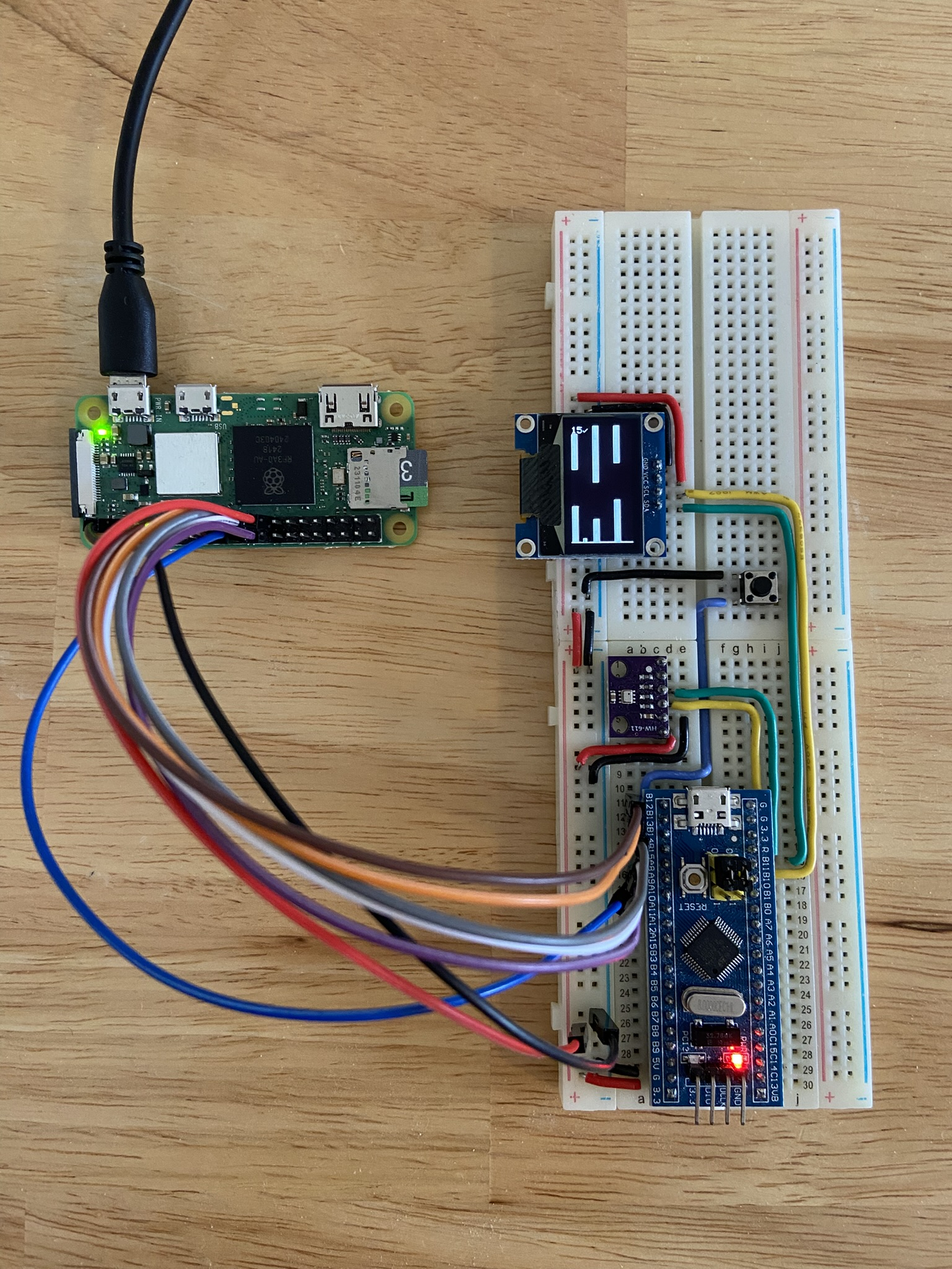
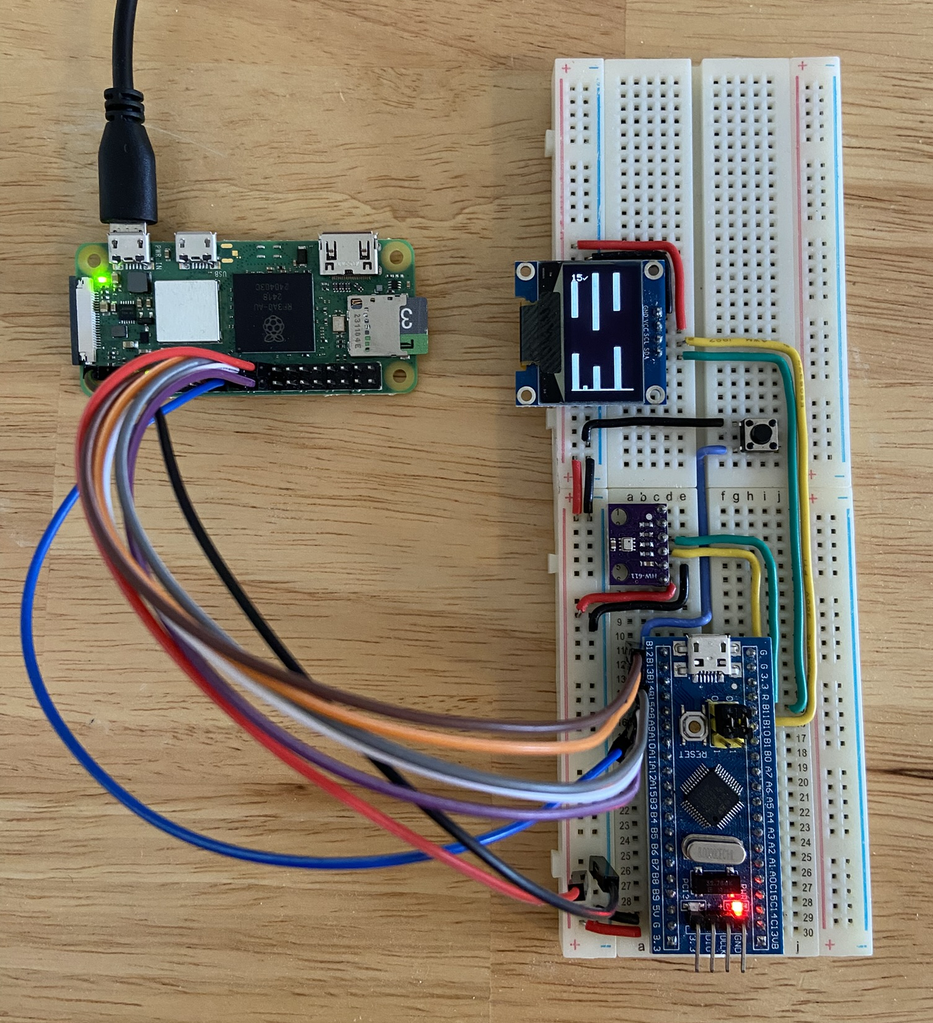
Fix hardware photo

diff --git a/README.md b/README.md
@@ -45,4 +45,5 @@ The corresponding image on the Raspberry Pi Zero 2 W is a minimal Linux distribu
 ## Media
 
 ![Game Demo](Media/demo.gif)
-![Hardware Photo](Media/hardware.jpeg)
+
+![Hardware Photo](Media/hardware.JPEG)
